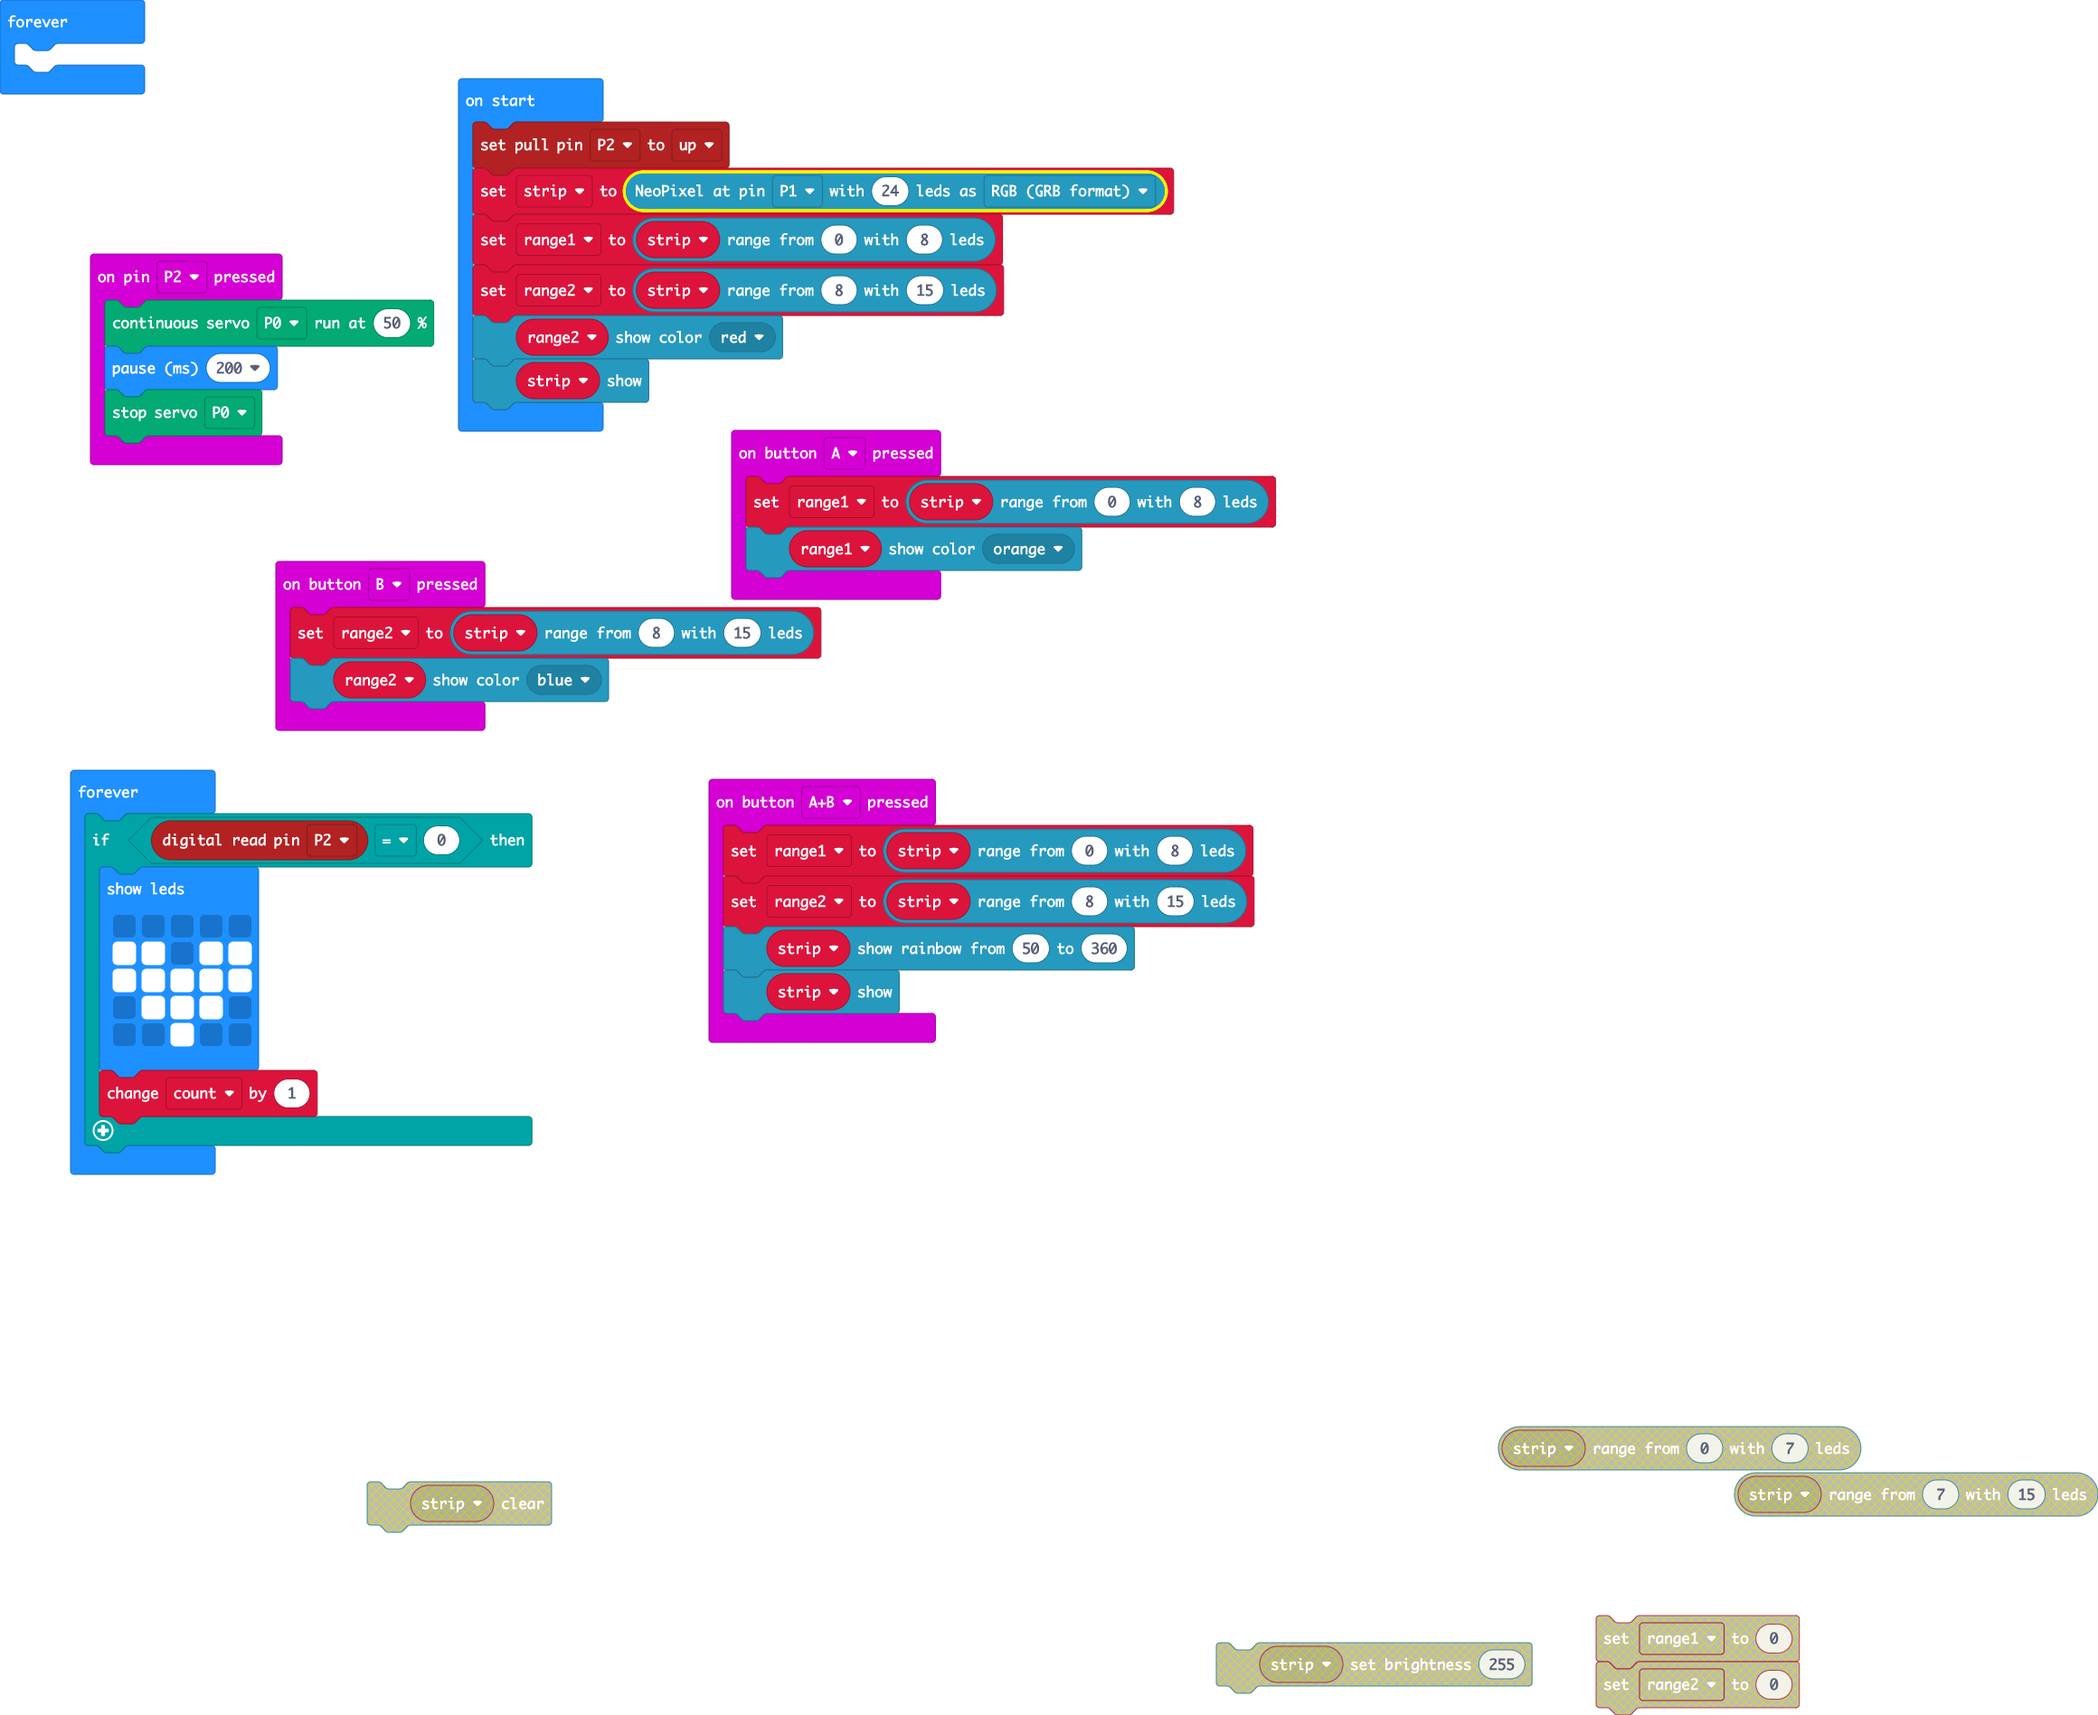
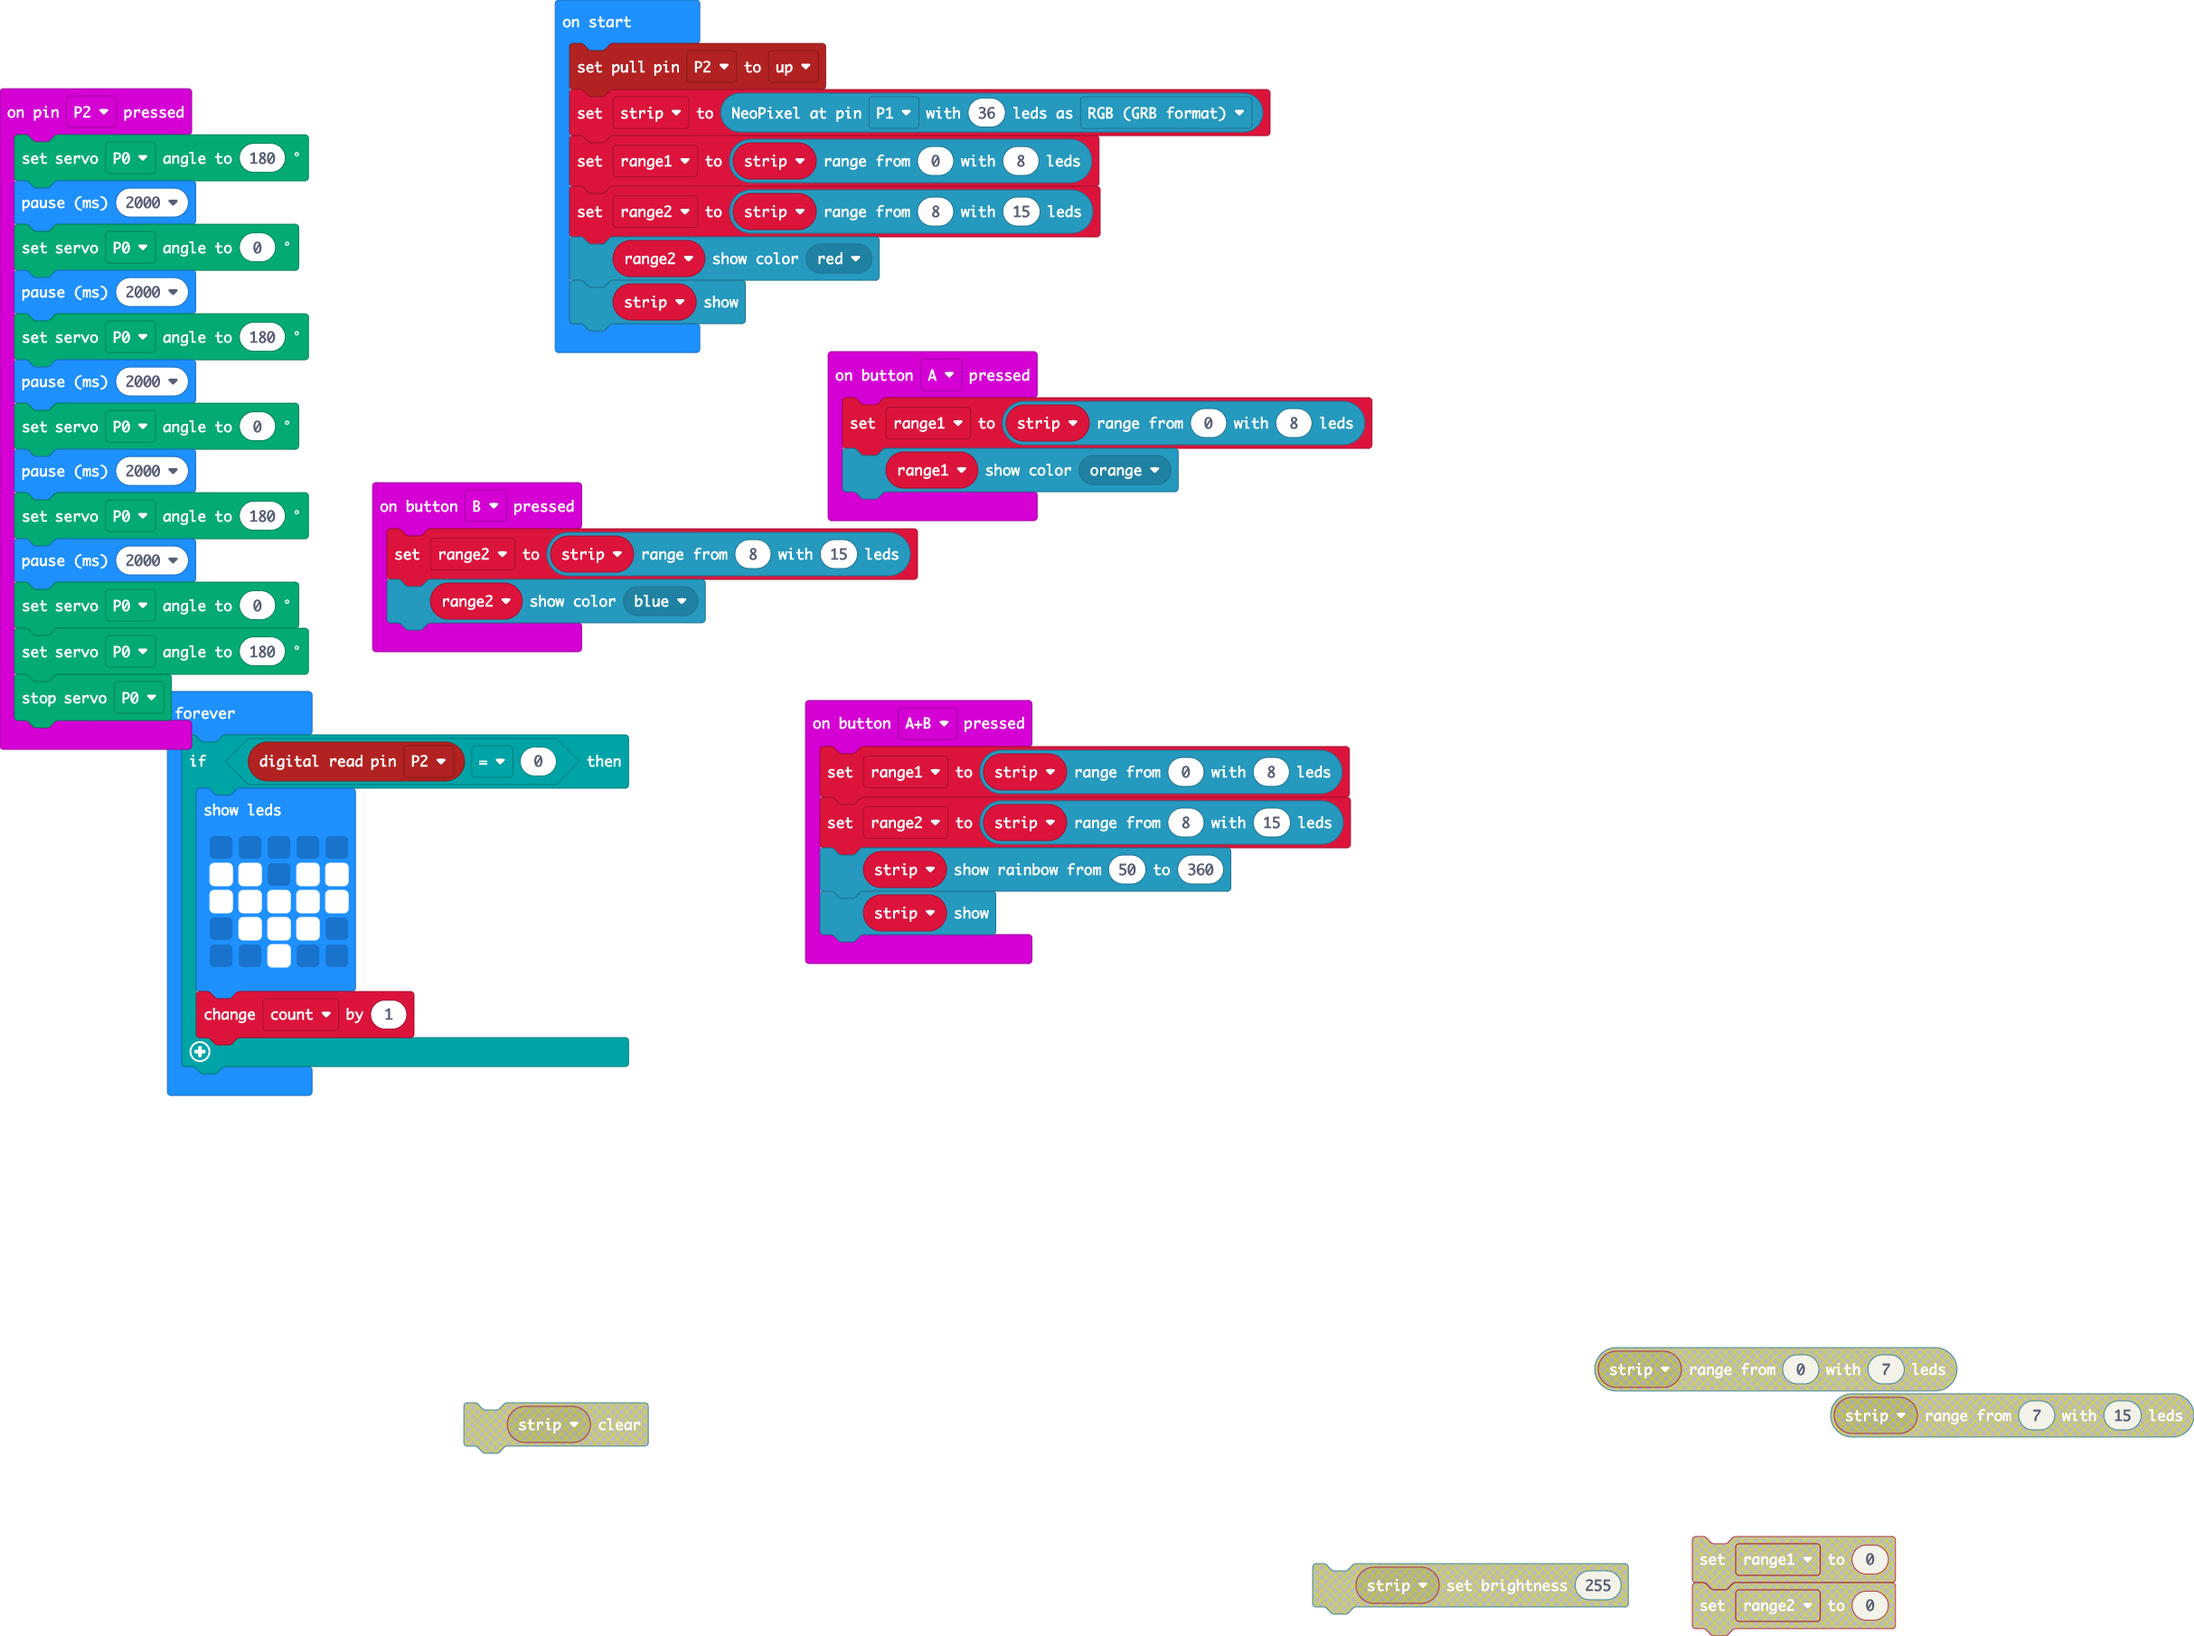
finuished

diff --git a/main.ts b/main.ts
@@ -3,8 +3,18 @@ input.onButtonPressed(Button.A, function () {
     range1.showColor(neopixel.colors(NeoPixelColors.Orange))
 })
 input.onPinPressed(TouchPin.P2, function () {
-    servos.P0.run(50)
-    basic.pause(200)
+    servos.P0.setAngle(180)
+    basic.pause(2000)
+    servos.P0.setAngle(0)
+    basic.pause(2000)
+    servos.P0.setAngle(180)
+    basic.pause(2000)
+    servos.P0.setAngle(0)
+    basic.pause(2000)
+    servos.P0.setAngle(180)
+    basic.pause(2000)
+    servos.P0.setAngle(0)
+    servos.P0.setAngle(180)
     servos.P0.stop()
 })
 input.onButtonPressed(Button.AB, function () {
@@ -22,14 +32,11 @@ let range2: neopixel.Strip = null
 let range1: neopixel.Strip = null
 let strip: neopixel.Strip = null
 pins.setPull(DigitalPin.P2, PinPullMode.PullUp)
-strip = neopixel.create(DigitalPin.P1, 24, NeoPixelMode.RGB)
+strip = neopixel.create(DigitalPin.P1, 36, NeoPixelMode.RGB)
 range1 = strip.range(0, 8)
 range2 = strip.range(8, 15)
 range2.showColor(neopixel.colors(NeoPixelColors.Red))
 strip.show()
-basic.forever(function () {
-	
-})
 basic.forever(function () {
     if (pins.digitalReadPin(DigitalPin.P2) == 0) {
         basic.showLeds(`
